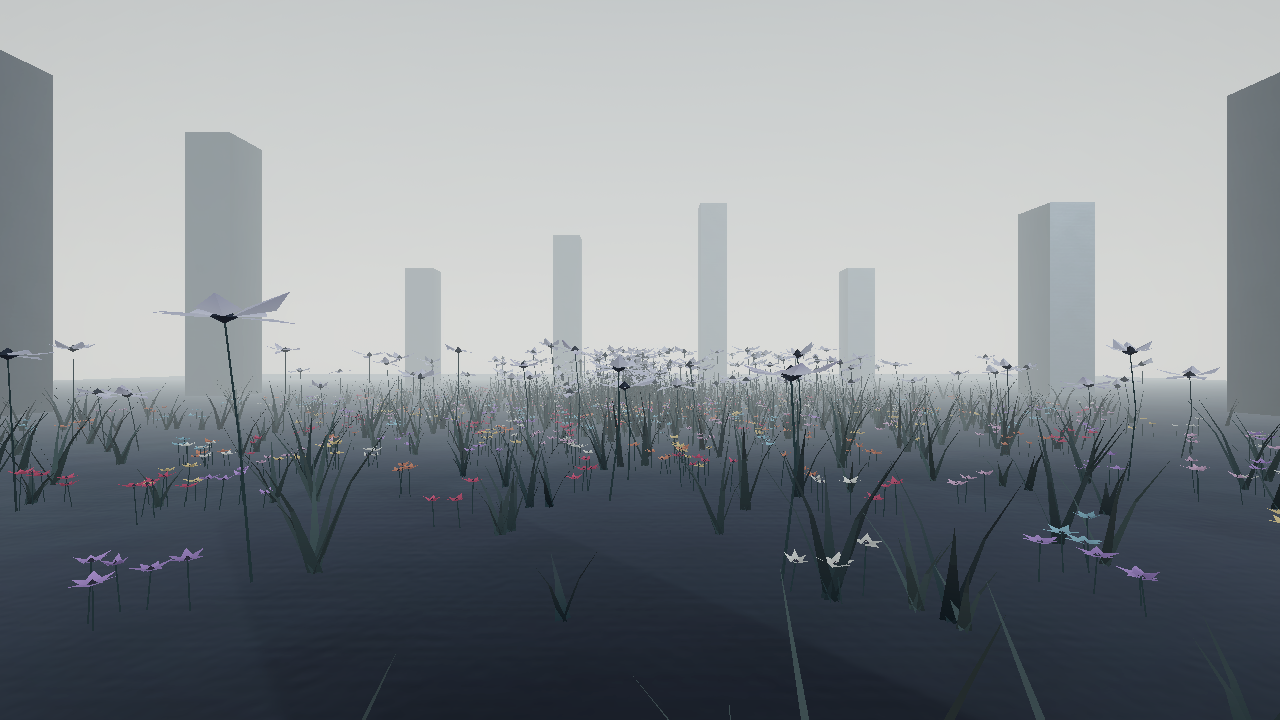
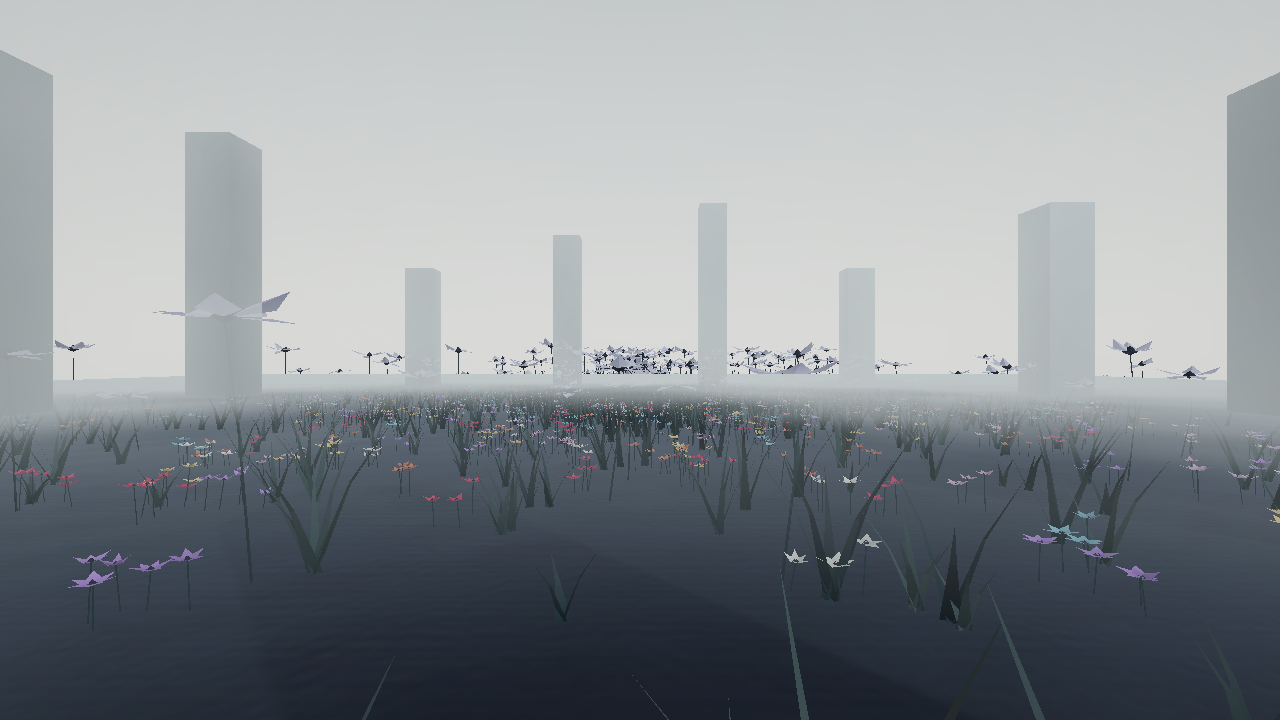
Replace linear fog with camera radial noise fog

diff --git a/Assets/MVP01/Editor/MVP01Builder.cs b/Assets/MVP01/Editor/MVP01Builder.cs
@@ -42,6 +42,7 @@ public static class MVP01Builder
         boxCount = 0;
 
         Material sky = MakeSky();
+        ConfigureRadialFog();
         Material floorMetal = MakeSurface("Metal Floor", new Color(0.35f, 0.39f, 0.41f), "steel", 0.94f, 0.62f);
         floorMetal.SetTextureScale("_BaseMap", new Vector2(25f, 25f));
         EditorUtility.SetDirty(floorMetal);
@@ -108,11 +109,7 @@ public static class MVP01Builder
         RenderSettings.ambientIntensity = 0.85f;
         RenderSettings.defaultReflectionMode = DefaultReflectionMode.Skybox;
         RenderSettings.reflectionIntensity = 0.8f;
-        RenderSettings.fog = true;
-        RenderSettings.fogMode = FogMode.Linear;
-        RenderSettings.fogColor = new Color(0.83f, 0.88f, 0.89f);
-        RenderSettings.fogStartDistance = 8f;
-        RenderSettings.fogEndDistance = 48f;
+        RenderSettings.fog = false;
 
         AddReflectionProbe("Metal field reflection", V(0, 5, 0), V(90, 24, 90), lighting.transform);
 
@@ -276,6 +273,64 @@ public static class MVP01Builder
         material.SetFloat("_BandStrength", 0.012f);
         EditorUtility.SetDirty(material);
         return material;
+    }
+
+    private static void ConfigureRadialFog()
+    {
+        string materialPath = Root + "/Materials/Camera_Radial_Fog.mat";
+        Shader shader = AssetDatabase.LoadAssetAtPath<Shader>(Root + "/Shaders/CameraRadialFog.shader");
+        if (shader == null) throw new InvalidOperationException("CameraRadialFog shader has not imported.");
+        Material material = AssetDatabase.LoadAssetAtPath<Material>(materialPath);
+        if (material == null)
+        {
+            material = new Material(shader) { name = "Camera Radial Fog" };
+            AssetDatabase.CreateAsset(material, materialPath);
+        }
+        material.shader = shader;
+        material.SetColor("_FogColor", new Color(0.83f, 0.88f, 0.89f));
+        material.SetFloat("_FogStart", 7f);
+        material.SetFloat("_FogEnd", 48f);
+        material.SetFloat("_NoiseScale", 0.11f);
+        material.SetFloat("_NoiseStrength", 14f);
+        EditorUtility.SetDirty(material);
+
+        const string rendererPath = "Assets/Settings/PC_Renderer.asset";
+        UniversalRendererData rendererData = AssetDatabase.LoadAssetAtPath<UniversalRendererData>(rendererPath);
+        if (rendererData == null) throw new InvalidOperationException("PC URP renderer asset is missing.");
+        const string featureName = "MVP01 Camera Radial Fog";
+        FullScreenPassRendererFeature feature = rendererData.rendererFeatures
+            .OfType<FullScreenPassRendererFeature>()
+            .FirstOrDefault(item => item.name == featureName);
+        if (feature == null)
+        {
+            feature = ScriptableObject.CreateInstance<FullScreenPassRendererFeature>();
+            feature.name = featureName;
+            AssetDatabase.AddObjectToAsset(feature, rendererData);
+            rendererData.rendererFeatures.Add(feature);
+        }
+        feature.injectionPoint = FullScreenPassRendererFeature.InjectionPoint.BeforeRenderingPostProcessing;
+        feature.fetchColorBuffer = true;
+        feature.requirements = ScriptableRenderPassInput.Depth;
+        feature.passMaterial = material;
+        feature.passIndex = 0;
+        feature.bindDepthStencilAttachment = false;
+        feature.SetActive(true);
+        feature.Create();
+
+        // Keep URP's feature ID map in sync so the subasset survives an Editor reload.
+        SerializedObject serializedRenderer = new SerializedObject(rendererData);
+        SerializedProperty featureMap = serializedRenderer.FindProperty("m_RendererFeatureMap");
+        featureMap.arraySize = rendererData.rendererFeatures.Count;
+        for (int i = 0; i < rendererData.rendererFeatures.Count; i++)
+        {
+            if (AssetDatabase.TryGetGUIDAndLocalFileIdentifier(rendererData.rendererFeatures[i],
+                    out string _, out long localId))
+                featureMap.GetArrayElementAtIndex(i).longValue = localId;
+        }
+        serializedRenderer.ApplyModifiedPropertiesWithoutUndo();
+        rendererData.SetDirty();
+        EditorUtility.SetDirty(rendererData);
+        EditorUtility.SetDirty(feature);
     }
 
     private static Material MakeSurface(string name, Color tint, string textureName, float metallic, float smoothness)

diff --git a/Assets/MVP01/README.md b/Assets/MVP01/README.md
@@ -2,6 +2,8 @@
 
 Open `Scenes/MVP01_BrutalistWalk.unity` and press Play. Click the Game view to capture the mouse; press Escape to release it. Move with WASD or arrow keys, hold Shift to move faster, and look with the mouse.
 
-The scene contains one 100 × 100 m metal Plane for the floor and 14 rectangular metal columns arranged around its center. Both use URP/Lit metallic PBR materials with procedural color, normal, metallic/smoothness, and occlusion maps. A deterministic combined mesh places dark grass, tall pale flowers, and dense clusters of small ground flowers on the middle of the metal, thinning towards the perimeter. Ground blossoms vary among carmine, rust, amber, violet, teal, rose, and ivory. The plants gently sway and do not block walking. Cool light, a layered white sky, and distance fog give the field an uncanny mood. The previous concrete texture study stays in the project assets but is not used by this scene.
+The scene contains one 100 × 100 m metal Plane for the floor and 14 rectangular metal columns arranged around its center. Both use URP/Lit metallic PBR materials with procedural color, normal, metallic/smoothness, and occlusion maps. A deterministic combined mesh places dark grass, tall pale flowers, and dense clusters of small ground flowers on the middle of the metal, thinning towards the perimeter. Ground blossoms vary among carmine, rust, amber, violet, teal, rose, and ivory. The plants gently sway and do not block walking. Cool light and a layered white sky give the field an uncanny mood. The previous concrete texture study stays in the project assets but is not used by this scene.
+
+Fog is a URP full-screen pass on `PC_Renderer`: it reconstructs each visible point from the depth texture, measures its radial distance from the camera, and distorts that distance with slowly drifting world-space noise. Adjust the clear radius, opaque radius, noise scale, and distortion in `Materials/Camera_Radial_Fog.mat`. Unity's scene-wide linear fog is disabled to avoid applying fog twice.
 
 Use **MVP01 > Build Metal Field** in the Unity Editor to regenerate the scene and four PNGs in the project's `Previews` directory. Use **MVP01 > Capture Preview** to refresh only the PNGs. `MVP01_FloraDetail.png` shows the central growth close up.
